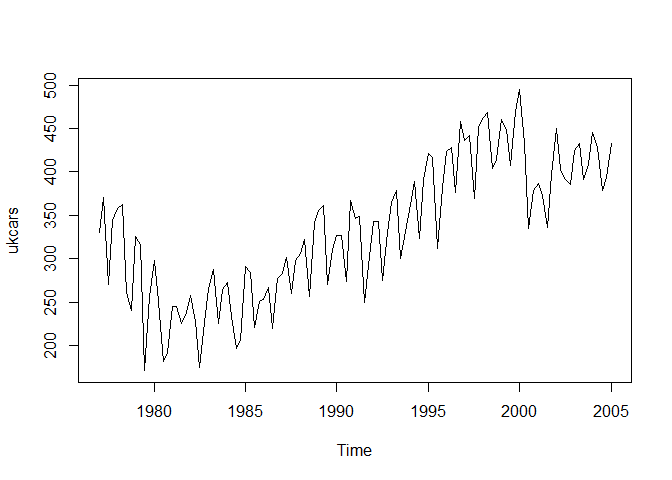
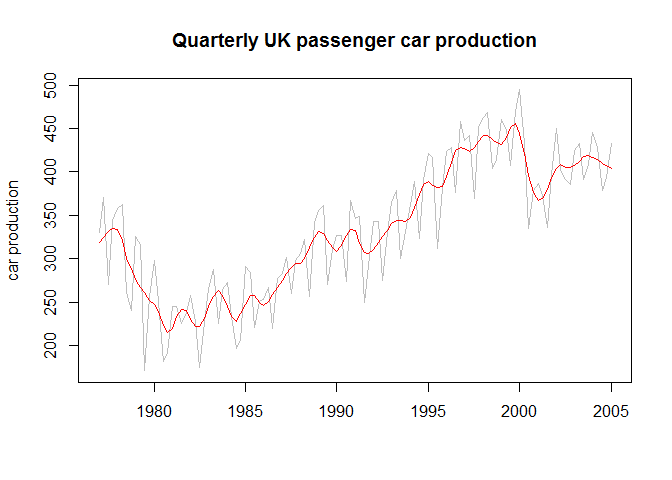
plot cars

diff --git a/PostLiveSession9_6306.md b/PostLiveSession9_6306.md
@@ -62,7 +62,7 @@ data(ukcars)
 plot(ukcars)
 ```
 
-![](PostLiveSession9_6306_files/figure-html/plotukcars-1.png)<!-- -->
+![](PostLiveSession9_6306_files/figure-html/plotukcarsorig-1.png)<!-- -->
 
 ####	Use a classical decomposition to calculate the trend-cycle and seasonal indices. 
 
@@ -165,7 +165,7 @@ plot(ukcars, col="gray",
 lines(fit$time.series[,2],col="red",ylab="Trend")
 ```
 
-![](PostLiveSession9_6306_files/figure-html/plotukcars02-1.png)<!-- -->
+![](PostLiveSession9_6306_files/figure-html/plotukcars-1.png)<!-- -->
 
 ###Question 2
 
